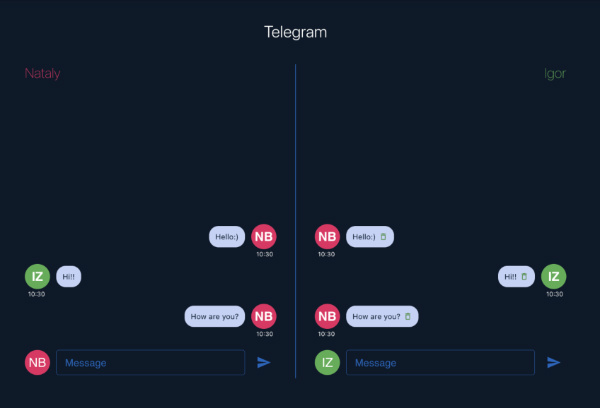
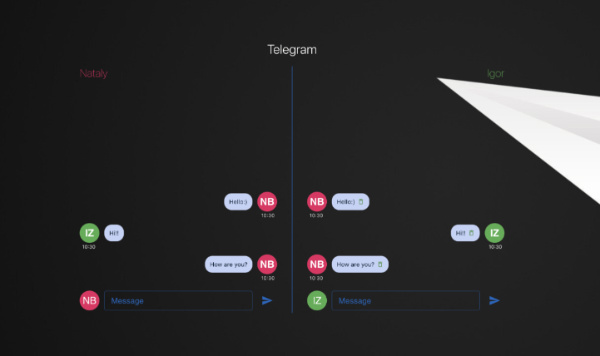
styles

diff --git a/src/components/telegram/Telegram.tsx b/src/components/telegram/Telegram.tsx
@@ -2,10 +2,11 @@ import React, {useReducer, useState} from "react";
 import s from "./Telegram.module.css";
 import css from "../../App.module.css";
 import {RightSide} from "./items/RightSide";
-import { v1 } from "uuid";
+import {v1} from "uuid";
 import {LeftSide} from "./items/LeftSide";
 import {telegramReducer} from "../../store/telegram-reducer";
 import {Footer} from "../Footer";
+import {Nav} from "../Nav";
 
 export type TelegramType = {
   name: string
@@ -20,7 +21,7 @@ export type MessageType = {
 export const Telegram: React.FC<TelegramType> = ({
                                                    name,
                                                  }) => {
-  const [messages, dispatch] = useReducer(telegramReducer,[
+  const [messages, dispatch] = useReducer(telegramReducer, [
     {_id: v1(), userName: "Nataly", time: "10:30", text: "Hello:)"},
     {_id: v1(), userName: "Igor", time: "10:30", text: "Hi!!"},
     {_id: v1(), userName: "Nataly", time: "10:30", text: "How are you?"}
@@ -73,29 +74,30 @@ export const Telegram: React.FC<TelegramType> = ({
   }
 
   return (
-    <div className={css.wrapper}>
-      <div className={css.app}>
-        <h1 className={css.title}>{name}</h1>
-        <div className={s.telegramWrapper}>
-          <LeftSide
-            userName={"Nataly"}
-            messages={messages}
-            addMessage={addMessage}
-            onChangeTextArea={onChangeTextArea}
-          />
-          <RightSide
-            value={value}
-            error={error}
-            userName={"Igor"}
-            messages={messages}
-            onChangeHandler={onChangeHandler}
-            onFocusHandler={onFocusHandler}
-            addMessageHandler={addMessageHandler}
-            deleteMessage={deleteMessage}
-          />
+    <div className={s.mainContainer}>
+      <div className={css.wrapper}>
+        <div className={css.app}>
+          <h1 className={css.title}>{name}</h1>
+          <div className={s.telegramWrapper}>
+            <LeftSide
+              userName={"Nataly"}
+              messages={messages}
+              addMessage={addMessage}
+              onChangeTextArea={onChangeTextArea}
+            />
+            <RightSide
+              value={value}
+              error={error}
+              userName={"Igor"}
+              messages={messages}
+              onChangeHandler={onChangeHandler}
+              onFocusHandler={onFocusHandler}
+              addMessageHandler={addMessageHandler}
+              deleteMessage={deleteMessage}
+            />
+          </div>
         </div>
       </div>
-      <Footer />
     </div>
   )
 }

diff --git a/src/components/counters/simpleCounter/SimpleCounter.tsx b/src/components/counters/simpleCounter/SimpleCounter.tsx
@@ -5,6 +5,7 @@ import {ChangeCounter} from "./items/ChangeCounter";
 import {Settings} from "./items/Settings";
 import AdvancedCounter from "../advancedCounter/AdvancedCounter";
 import {Footer} from "../../Footer";
+import {Nav} from "../../Nav";
 
 export type ErrorType = {
   maxValue: boolean
@@ -216,31 +217,35 @@ function SimpleCounter(props: App0Type) {
   })
 
   return (
-    <div className={css.wrapper}>
-      <div className={css.app}>
-        <h1 className={css.title}>{props.name}</h1>
-        <div className={c.counterWrapperColumns}>
-          <ChangeCounter
-            value={value}
-            settings={settings}
-            incCallback={incHandler}
-            resetCallback={resetHandler}
-            timerCallback={timerHandler}
-            disabled={disabled}
-            error={error}
-          />
-          <Settings
-            settings={settings}
-            setValuesHandler={setValuesHandler}
-            onChangeMaxValueHandler={onChangeMaxValueHandler}
-            onChangeStartValueHandler={onChangeStartValueHandler}
-            error={error}
-            disabled={disabled}
-          />
+
+    <div className={css.container}>
+      <Nav/>
+      <div className={css.wrapper}>
+        <div className={css.app}>
+          <h1 className={css.title}>{props.name}</h1>
+          <div className={c.counterWrapperColumns}>
+            <ChangeCounter
+              value={value}
+              settings={settings}
+              incCallback={incHandler}
+              resetCallback={resetHandler}
+              timerCallback={timerHandler}
+              disabled={disabled}
+              error={error}
+            />
+            <Settings
+              settings={settings}
+              setValuesHandler={setValuesHandler}
+              onChangeMaxValueHandler={onChangeMaxValueHandler}
+              onChangeStartValueHandler={onChangeStartValueHandler}
+              error={error}
+              disabled={disabled}
+            />
+          </div>
+          <AdvancedCounter name={"Advanced counter"}/>
         </div>
-        <AdvancedCounter name={"Advanced counter"} />
+        <Footer/>
       </div>
-      <Footer />
     </div>
   );
 }

diff --git a/src/components/blocks/Main.tsx b/src/components/blocks/Main.tsx
@@ -6,6 +6,9 @@ import {MyApps} from './MyApps/MyApps'
 import {HireMe} from "./HireMe/HireMe";
 import {Contact} from "./Contact/Contact";
 import {Footer} from "../Footer";
+import css from "../../App.module.css";
+import {Nav} from "../Nav";
+import React from "react";
 
 type MainType = {
   name: string
@@ -15,18 +18,21 @@ export const Main: React.FC<MainType> = ({
                                            name
                                          }) => {
   return (
-    <div className={s.container}>
-      <div className={styles.mainContainer}>
-        <h1 className={styles.title}>{name}</h1>
-        <AboutMe name={"About Me"}/>
-        <MyApps name={"My projects"}/>
-        <MySkills name={"My Skills"}/>
+    <div className={css.container}>
+      <Nav/>
+      <div className={s.container}>
+        <div className={styles.mainContainer}>
+          <h1 className={styles.title}>{name}</h1>
+          <AboutMe name={"About Me"}/>
+          <MyApps name={"My projects"}/>
+          <MySkills name={"My Skills"}/>
+        </div>
+        <HireMe name={"I consider a remote work"}/>
+        <div className={styles.mainContainer}>
+          <Contact name={"Contact Me"}/>
+        </div>
+        <Footer/>
       </div>
-      <HireMe name={"I consider a remote work"}/>
-      <div className={styles.mainContainer}>
-        <Contact name={"Contact Me"} />
-      </div>
-      <Footer />
     </div>
   )
 }

diff --git a/src/components/Nav.tsx b/src/components/Nav.tsx
@@ -11,7 +11,6 @@ import Button from '@mui/material/Button';
 import {pink} from '@mui/material/colors';
 import SvgIcon, {SvgIconProps} from '@mui/material/SvgIcon';
 
-const settings = ['Profile', 'Account', 'Dashboard', 'Logout'];
 
 export const Nav = () => {
   const [anchorElNav, setAnchorElNav] = React.useState<null | HTMLElement>(null);

diff --git a/src/App.tsx b/src/App.tsx
@@ -8,8 +8,6 @@ import {Main} from "./components/blocks/Main";
 
 function App() {
   return (
-    <div className={css.container}>
-      <Nav/>
       <Routes>
         <Route
           path="/way-samurai_react-apps/telegram"
@@ -30,7 +28,6 @@ function App() {
           }
         />
       </Routes>
-    </div>
   );
 }
 

diff --git a/src/components/blocks/Main.module.css b/src/components/blocks/Main.module.css
@@ -105,6 +105,7 @@
     flex: 0 1 auto;
     height: 350px;
     min-width: 220px;
+    box-shadow: 3px 3px 10px #060f18;
 }
 
 .blockAppText {
@@ -169,6 +170,7 @@
     flex-direction: column;
     gap: 20px;
     align-items: center;
+    box-shadow: 3px 3px 10px #060f18;
 }
 @media (max-width: 730px) {
     .formSize {

diff --git a/src/components/telegram/Telegram.module.css b/src/components/telegram/Telegram.module.css
@@ -1,3 +1,10 @@
+.mainContainer {
+    width: 100%;
+    min-height: 100vh;
+    margin: 0 auto;
+    background-image: url("https://abrakadabra.fun/uploads/posts/2022-03/1647518143_23-abrakadabra-fun-p-telegram-oboi-dlya-pk-37.jpg");
+}
+
 .telegramWrapper {
     display: flex;
 }
